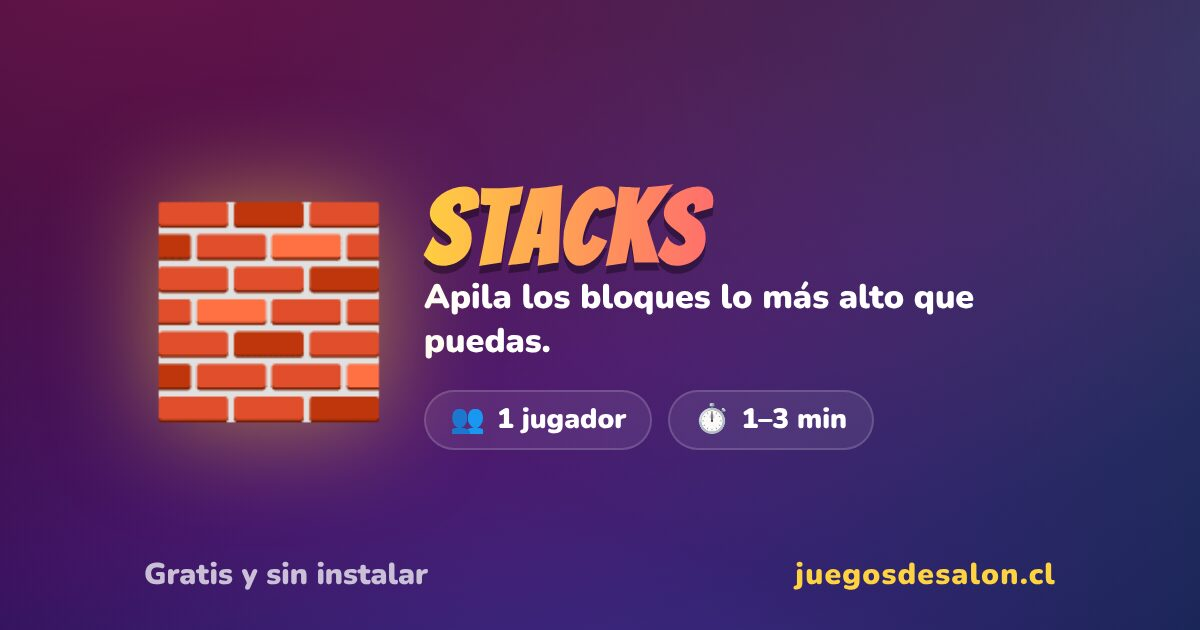
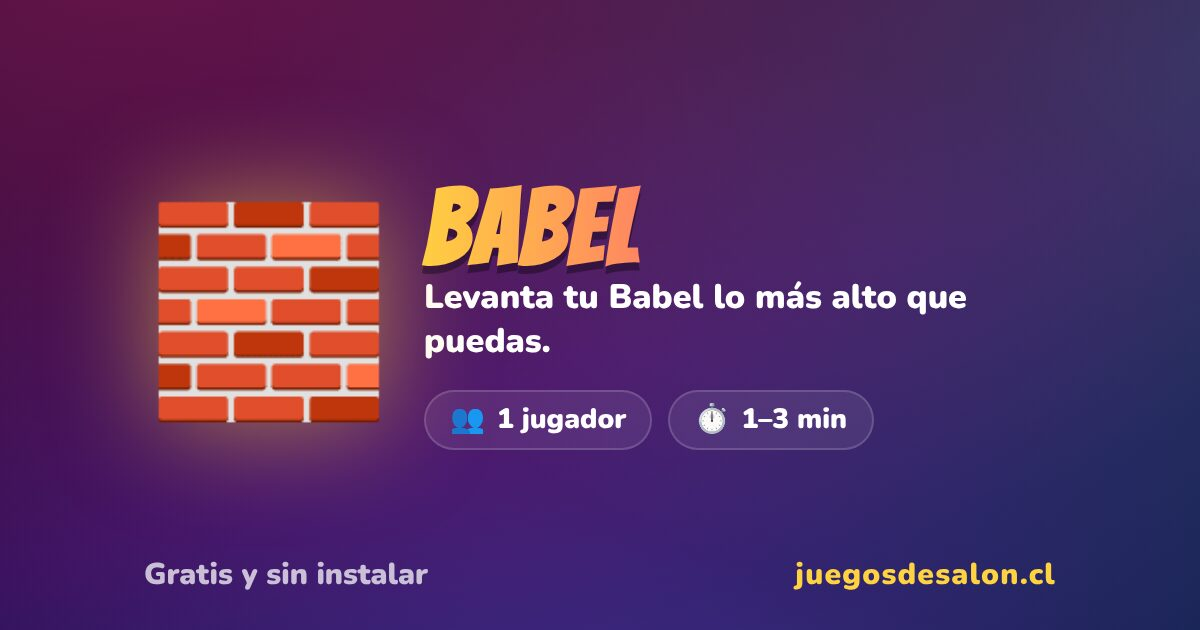
Stacks is renamed Babel (the owner's choice): its page moves to /babel/ (D-517)
Too close to the original's name (Stack). The id stays `stack`; the cover still
credits Ketchapp's Stack with its link.

Claude-Session: https://claude.ai/code/session_014TxuHUiWxbmduqQWuqBB6e

Changed region(s): [[0.3392, 0.2714, 0.8325, 0.5127]]

diff --git a/public/minijuegos/stack/index.html b/public/minijuegos/stack/index.html
@@ -3,34 +3,34 @@
 <head>
   <meta charset="utf-8">
   <meta name="viewport" content="width=device-width, initial-scale=1">
-  <title>Stacks 🧱 · Juegos de Salón</title>
-  <!-- Bridge page (D-192): this route moved to /stacks/. Generated by node tools/release/og.mjs cards: not edited by hand. -->
+  <title>Babel 🧱 · Juegos de Salón</title>
+  <!-- Bridge page (D-192): this route moved to /babel/. Generated by node tools/release/og.mjs cards: not edited by hand. -->
   <!-- generated: og · rewritten by node tools/release/og.mjs cards -->
-  <meta name="description" content="Apila los bloques lo más alto que puedas. Un jugador, 1–3 min. Gratis, sin instalar y sin cuenta.">
-  <link rel="canonical" href="https://juegosdesalon.cl/stacks/">
+  <meta name="description" content="Levanta tu Babel lo más alto que puedas. Un jugador, 1–3 min. Gratis, sin instalar y sin cuenta.">
+  <link rel="canonical" href="https://juegosdesalon.cl/babel/">
   <meta property="og:type" content="website">
   <meta property="og:site_name" content="Juegos de Salón">
-  <meta property="og:url" content="https://juegosdesalon.cl/stacks/">
-  <meta property="og:title" content="Stacks 🧱 · Juegos de Salón">
-  <meta property="og:description" content="Apila los bloques lo más alto que puedas. Un jugador, 1–3 min. Gratis, sin instalar y sin cuenta.">
+  <meta property="og:url" content="https://juegosdesalon.cl/babel/">
+  <meta property="og:title" content="Babel 🧱 · Juegos de Salón">
+  <meta property="og:description" content="Levanta tu Babel lo más alto que puedas. Un jugador, 1–3 min. Gratis, sin instalar y sin cuenta.">
   <meta property="og:image" content="https://juegosdesalon.cl/assets/og/stack.jpg">
   <meta property="og:image:type" content="image/jpeg">
   <meta property="og:image:width" content="1200">
   <meta property="og:image:height" content="630">
-  <meta property="og:image:alt" content="Stacks: Apila los bloques lo más alto que puedas.">
+  <meta property="og:image:alt" content="Babel: Levanta tu Babel lo más alto que puedas.">
   <meta property="og:locale" content="es_CL">
   <meta property="og:locale:alternate" content="en_US">
   <meta property="og:locale:alternate" content="pt_BR">
   <meta name="twitter:card" content="summary_large_image">
-  <meta name="twitter:title" content="Stacks 🧱 · Juegos de Salón">
-  <meta name="twitter:description" content="Apila los bloques lo más alto que puedas. Un jugador, 1–3 min. Gratis, sin instalar y sin cuenta.">
+  <meta name="twitter:title" content="Babel 🧱 · Juegos de Salón">
+  <meta name="twitter:description" content="Levanta tu Babel lo más alto que puedas. Un jugador, 1–3 min. Gratis, sin instalar y sin cuenta.">
   <meta name="twitter:image" content="https://juegosdesalon.cl/assets/og/stack.jpg">
-  <meta name="twitter:image:alt" content="Stacks: Apila los bloques lo más alto que puedas.">
+  <meta name="twitter:image:alt" content="Babel: Levanta tu Babel lo más alto que puedas.">
   <!-- /generated -->
-  <script>try { if (sessionStorage.getItem('juegos-de-salon:ref') === null) sessionStorage.setItem('juegos-de-salon:ref', document.referrer); } catch (e) {} location.replace('../../stacks/' + location.search + location.hash);</script>
-  <noscript><meta http-equiv="refresh" content="0; url=../../stacks/"></noscript>
+  <script>try { if (sessionStorage.getItem('juegos-de-salon:ref') === null) sessionStorage.setItem('juegos-de-salon:ref', document.referrer); } catch (e) {} location.replace('../../babel/' + location.search + location.hash);</script>
+  <noscript><meta http-equiv="refresh" content="0; url=../../babel/"></noscript>
 </head>
 <body>
-  <p><a href="../../stacks/">Stacks 🧱 · Juegos de Salón</a></p>
+  <p><a href="../../babel/">Babel 🧱 · Juegos de Salón</a></p>
 </body>
 </html>

diff --git a/public/babel/index.html b/public/babel/index.html
@@ -6,7 +6,7 @@
   <meta name="theme-color" content="#150726">
   <meta name="apple-mobile-web-app-capable" content="yes">
   <meta name="apple-mobile-web-app-status-bar-style" content="black-translucent">
-  <title>Stacks 🧱 · Juegos de Salón</title>
+  <title>Babel 🧱 · Juegos de Salón</title>
   <!-- Generated by node tools/release/og.mjs cards from public/cup/suelto/index.html: not edited by hand (D-162). -->
   <!--
     Sin destello de idioma (D-194): el HTML trae los textos en español y los módulos los cambian
@@ -27,26 +27,26 @@
     })();
   </script>
   <!-- generated: og · rewritten by node tools/release/og.mjs cards -->
-  <meta name="description" content="Apila los bloques lo más alto que puedas. Un jugador, 1–3 min. Gratis, sin instalar y sin cuenta.">
-  <link rel="canonical" href="https://juegosdesalon.cl/stacks/">
+  <meta name="description" content="Levanta tu Babel lo más alto que puedas. Un jugador, 1–3 min. Gratis, sin instalar y sin cuenta.">
+  <link rel="canonical" href="https://juegosdesalon.cl/babel/">
   <meta property="og:type" content="website">
   <meta property="og:site_name" content="Juegos de Salón">
-  <meta property="og:url" content="https://juegosdesalon.cl/stacks/">
-  <meta property="og:title" content="Stacks 🧱 · Juegos de Salón">
-  <meta property="og:description" content="Apila los bloques lo más alto que puedas. Un jugador, 1–3 min. Gratis, sin instalar y sin cuenta.">
+  <meta property="og:url" content="https://juegosdesalon.cl/babel/">
+  <meta property="og:title" content="Babel 🧱 · Juegos de Salón">
+  <meta property="og:description" content="Levanta tu Babel lo más alto que puedas. Un jugador, 1–3 min. Gratis, sin instalar y sin cuenta.">
   <meta property="og:image" content="https://juegosdesalon.cl/assets/og/stack.jpg">
   <meta property="og:image:type" content="image/jpeg">
   <meta property="og:image:width" content="1200">
   <meta property="og:image:height" content="630">
-  <meta property="og:image:alt" content="Stacks: Apila los bloques lo más alto que puedas.">
+  <meta property="og:image:alt" content="Babel: Levanta tu Babel lo más alto que puedas.">
   <meta property="og:locale" content="es_CL">
   <meta property="og:locale:alternate" content="en_US">
   <meta property="og:locale:alternate" content="pt_BR">
   <meta name="twitter:card" content="summary_large_image">
-  <meta name="twitter:title" content="Stacks 🧱 · Juegos de Salón">
-  <meta name="twitter:description" content="Apila los bloques lo más alto que puedas. Un jugador, 1–3 min. Gratis, sin instalar y sin cuenta.">
+  <meta name="twitter:title" content="Babel 🧱 · Juegos de Salón">
+  <meta name="twitter:description" content="Levanta tu Babel lo más alto que puedas. Un jugador, 1–3 min. Gratis, sin instalar y sin cuenta.">
   <meta name="twitter:image" content="https://juegosdesalon.cl/assets/og/stack.jpg">
-  <meta name="twitter:image:alt" content="Stacks: Apila los bloques lo más alto que puedas.">
+  <meta name="twitter:image:alt" content="Babel: Levanta tu Babel lo más alto que puedas.">
   <!-- /generated -->
   <link rel="manifest" href="../manifest.webmanifest">
   <script>

diff --git a/public/minigames/babel/index.html b/public/minigames/babel/index.html
@@ -1,0 +1,36 @@
+<!DOCTYPE html>
+<html lang="es">
+<head>
+  <meta charset="utf-8">
+  <meta name="viewport" content="width=device-width, initial-scale=1">
+  <title>Babel 🧱 · Juegos de Salón</title>
+  <!-- Bridge page (D-192): this route moved to /babel/. Generated by node tools/release/og.mjs cards: not edited by hand. -->
+  <!-- generated: og · rewritten by node tools/release/og.mjs cards -->
+  <meta name="description" content="Levanta tu Babel lo más alto que puedas. Un jugador, 1–3 min. Gratis, sin instalar y sin cuenta.">
+  <link rel="canonical" href="https://juegosdesalon.cl/babel/">
+  <meta property="og:type" content="website">
+  <meta property="og:site_name" content="Juegos de Salón">
+  <meta property="og:url" content="https://juegosdesalon.cl/babel/">
+  <meta property="og:title" content="Babel 🧱 · Juegos de Salón">
+  <meta property="og:description" content="Levanta tu Babel lo más alto que puedas. Un jugador, 1–3 min. Gratis, sin instalar y sin cuenta.">
+  <meta property="og:image" content="https://juegosdesalon.cl/assets/og/stack.jpg">
+  <meta property="og:image:type" content="image/jpeg">
+  <meta property="og:image:width" content="1200">
+  <meta property="og:image:height" content="630">
+  <meta property="og:image:alt" content="Babel: Levanta tu Babel lo más alto que puedas.">
+  <meta property="og:locale" content="es_CL">
+  <meta property="og:locale:alternate" content="en_US">
+  <meta property="og:locale:alternate" content="pt_BR">
+  <meta name="twitter:card" content="summary_large_image">
+  <meta name="twitter:title" content="Babel 🧱 · Juegos de Salón">
+  <meta name="twitter:description" content="Levanta tu Babel lo más alto que puedas. Un jugador, 1–3 min. Gratis, sin instalar y sin cuenta.">
+  <meta name="twitter:image" content="https://juegosdesalon.cl/assets/og/stack.jpg">
+  <meta name="twitter:image:alt" content="Babel: Levanta tu Babel lo más alto que puedas.">
+  <!-- /generated -->
+  <script>try { if (sessionStorage.getItem('juegos-de-salon:ref') === null) sessionStorage.setItem('juegos-de-salon:ref', document.referrer); } catch (e) {} location.replace('../../babel/' + location.search + location.hash);</script>
+  <noscript><meta http-equiv="refresh" content="0; url=../../babel/"></noscript>
+</head>
+<body>
+  <p><a href="../../babel/">Babel 🧱 · Juegos de Salón</a></p>
+</body>
+</html>

diff --git a/public/assets/js/games.js b/public/assets/js/games.js
@@ -510,19 +510,20 @@ export const SUELTOS = [
     nuevoDesde: '2026-11-02',
   },
   {
-    // Out of the lab in D-517 with Ninja, launched the same way by flags/stack (see Ninja)
+    // Out of the lab in D-517 with Ninja, launched the same way by flags/stack (see Ninja). Its name is Babel (the
+    // owner's choice): not the original's (Stack); the id stays `stack`
     id: 'stack',
     lanza: 'stack',
     copa: { pozo: 15 },
     unoAlDia: { orden: 20, desde: '2026-11-03' },
-    slug: 'stacks',
+    slug: 'babel',
     emoji: '🧱',
-    name: { es: 'Stacks', en: 'Stacks', pt: 'Stacks' },
-    tagline: { es: 'Apila los bloques lo más alto que puedas.', en: 'Stack the blocks as high as you can.', pt: 'Empilhe os blocos o mais alto que puder.' },
+    name: { es: 'Babel', en: 'Babel', pt: 'Babel' },
+    tagline: { es: 'Levanta tu Babel lo más alto que puedas.', en: 'Raise your Babel as high as you can.', pt: 'Erga sua Babel o mais alto que puder.' },
     keywords: {
-      es: ['torre', 'apilar', 'bloques', 'stacks', 'habilidad', 'reflejos', 'pulso', 'altura'],
-      en: ['tower', 'stack', 'blocks', 'stacks', 'skill', 'reflexes', 'timing', 'height'],
-      pt: ['torre', 'empilhar', 'blocos', 'stacks', 'habilidade', 'reflexos', 'precisão', 'altura'],
+      es: ['torre', 'apilar', 'bloques', 'babel', 'stack', 'habilidad', 'reflejos', 'pulso', 'altura'],
+      en: ['tower', 'stack', 'blocks', 'babel', 'skill', 'reflexes', 'timing', 'height'],
+      pt: ['torre', 'empilhar', 'blocos', 'babel', 'stack', 'habilidade', 'reflexos', 'precisão', 'altura'],
     },
     tipos: ['skill'],
     duration: '1–3',
@@ -542,7 +543,7 @@ export const TIPOS = {
   trivia: { emoji: '🧠', name: { es: 'Cultura', en: 'Trivia', pt: 'Cultura' } },
   // Only dice since Julepe and Cuarto Rey left the home page (D-420): the key stays, the name says what is there (D-517)
   tabletop: { emoji: '🎲', name: { es: 'Dados', en: 'Dice', pt: 'Dados' } },
-  // The first skill games, Ninja and Stacks (D-517): the home page offers a type only while it has a game to show.
+  // The first skill games, Ninja and Babel (D-517): the home page offers a type only while it has a game to show.
   // A short name, so five types fit one row on a 320 px phone in every language
   skill: { emoji: '🎯', name: { es: 'Pulso', en: 'Skill', pt: 'Reflexo' } },
 };

diff --git a/public/cup/games/stack/texts.js b/public/cup/games/stack/texts.js
@@ -1,11 +1,11 @@
 /**
- * 🧱 Stacks in La Copa: its texts in the three languages (C-3), merged into rules.js (D-331).
+ * 🧱 Babel in La Copa: its texts in the three languages (C-3), merged into rules.js (D-331).
  * `juego` is its entry in `juegos`; `ui`, the keys its screen reads from T, all prefixed `sk`.
- * The name is Stacks in every language; `skCredit` credits the original (its link is the game's name). Plural forms are [none, one, many].
+ * The name is Babel in every language; `skCredit` credits the original (its link is the game's name). Plural forms are [none, one, many].
  */
 const ES = {
   juego: {
-    nombre: 'Stacks', habilidad: 'reflejos',
+    nombre: 'Babel', habilidad: 'reflejos',
     como: [
       'Toca la pantalla para soltar el bloque que se desliza sobre la torre.',
       'Lo que sobresale se corta y el siguiente sale más chico. Si no cae sobre la torre, se acaba.',
@@ -33,7 +33,7 @@ const ES = {
 
 const EN = {
   juego: {
-    nombre: 'Stacks', habilidad: 'reflexes',
+    nombre: 'Babel', habilidad: 'reflexes',
     como: [
       'Tap the screen to drop the block sliding over the tower.',
       'Whatever hangs over the edge is cut off, and the next block is smaller. If it misses the tower, the game ends.',
@@ -61,7 +61,7 @@ const EN = {
 
 const PT = {
   juego: {
-    nombre: 'Stacks', habilidad: 'reflexos',
+    nombre: 'Babel', habilidad: 'reflexos',
     como: [
       'Toque a tela para soltar o bloco que desliza sobre a torre.',
       'O que sobra para fora é cortado, e o próximo bloco fica menor. Se ele não cair sobre a torre, o jogo acaba.',

diff --git a/public/labs/index.html b/public/labs/index.html
@@ -103,10 +103,10 @@
         </section>
 
         <section class="panel seccion" id="seccion-stack">
-          <h2>🧱 Stacks</h2>
+          <h2>🧱 Babel</h2>
           <p class="muted" style="margin:0">Inspirado en <a href="https://www.ketchappgames.com/" target="_blank" rel="noopener">Stack</a>, de Ketchapp. Un bloque se desliza sobre la torre y un toque lo suelta. Lo que sobresale se corta, y el siguiente bloque es más chico. Si cae justo encima, no se corta nada. ¿Hasta dónde llega tu torre?</p>
-          <p class="muted" style="margin:0;font-size:0.85rem">Listo para lanzar (D-517): en los tres idiomas, con su página <a href="../stacks/">/stacks/</a>, ranking, La Copa y Uno al día (desde el mazo del 8 de noviembre). Publicar para todos lo muestra al instante en la portada, la búsqueda y las copas nuevas; Volver al laboratorio lo vuelve a esconder.</p>
-          <a class="btn btn--yellow" id="btn-stack" href="../stacks/">🧱 Jugar Stacks</a>
+          <p class="muted" style="margin:0;font-size:0.85rem">Listo para lanzar (D-517): en los tres idiomas, con su página <a href="../babel/">/babel/</a>, ranking, La Copa y Uno al día (desde el mazo del 8 de noviembre). Publicar para todos lo muestra al instante en la portada, la búsqueda y las copas nuevas; Volver al laboratorio lo vuelve a esconder.</p>
+          <a class="btn btn--yellow" id="btn-stack" href="../babel/">🧱 Jugar Babel</a>
           <a class="link-btn" id="btn-stack-lab" href="stack/">El prototipo, en inglés</a>
         </section>
 

diff --git a/public/cup/demo.js b/public/cup/demo.js
@@ -47,7 +47,7 @@ const PUNTAJE = {
   // Tren en Vilo (D-456): ten a stage crossed, plus savings, solidity and speed
   // Ninja: its points, up to 100 (D-517)
   stick: k => { const s = Math.min(100, Math.round(60 * k + 40 * k * k)); return { s, r: `🥷 ${s}` }; },
-  // Stacks: two points a block, up to 100 (D-517)
+  // Babel: two points a block, up to 100 (D-517)
   stack: k => { const s = Math.min(100, 2 * Math.round(50 * k * k)); return { s, r: `${s}/100` }; },
   puentes: k => { const s = Math.min(100, 10 * Math.round(5 * k) + Math.round(30 * k * k)); return { s, r: `${s}/100` }; },
   // La final trae su tarjeta de rondas (⏳75 🔢85 …), que la tabla del día muestra (#259)

diff --git a/public/assets/js/flag-list.js b/public/assets/js/flag-list.js
@@ -17,6 +17,6 @@ export const FLAGS = {
   'name-guard': '🛡 Rankings: offensive names refused on sign-up',
   'uad-month-end': '🥇 Uno al día: month-end window with your place, a medal for the podium',
   'stick': '🥷 Ninja: the game, on the home page, the search and new cups (D-517)',
-  'stack': '🧱 Stacks: the game, on the home page, the search and new cups (D-517)',
+  'stack': '🧱 Babel: the game, on the home page, the search and new cups (D-517)',
   'no-double-tap-zoom': '👆 Games: a double tap no longer zooms the page (iPhone)',
 };

diff --git a/public/cup/games/stack/ui.js b/public/cup/games/stack/ui.js
@@ -1,5 +1,5 @@
 /**
- * 🧱 Stacks — its screen in La Copa, Uno al día and on its standalone page, moved from the lab
+ * 🧱 Babel — its screen in La Copa, Uno al día and on its standalone page, moved from the lab
  * (labs/stack/game.js, D-445) as Tren en Vilo was (D-456): a block slides over the tower, a tap drops
  * it, and whatever hangs over the edge is cut off. The engine is engine.js; the drawing, scene.js.
  *

diff --git a/public/cup/games/stack/style.css b/public/cup/games/stack/style.css
@@ -1,4 +1,4 @@
-/* 🧱 Stacks in La Copa (from the lab's style.css, D-445). Loaded by ui.js; every class starts with `sk-`.
+/* 🧱 Babel in La Copa (from the lab's style.css, D-445). Loaded by ui.js; every class starts with `sk-`.
    The tower's canvas is transparent: it stands on the app's own night (base.css). */
 
 /* The waiting room's name, with the 🧱 that sways */

diff --git a/public/cup/games/stack/scene.js b/public/cup/games/stack/scene.js
@@ -1,5 +1,5 @@
 /**
- * 🧱 Stacks' drawing: the tower in isometric view on a canvas, for the game and the cover (ui.js).
+ * 🧱 Babel' drawing: the tower in isometric view on a canvas, for the game and the cover (ui.js).
  * Moved from the lab (labs/stack/scene.js), the same drawing.
  */
 import { drop, movingAt, score, top, SLAB } from './engine.js';

diff --git a/public/cup/games/stack/engine.js b/public/cup/games/stack/engine.js
@@ -1,5 +1,5 @@
 /**
- * 🧱 Stacks — the engine (out of the lab, D-445, into La Copa, Uno al día and its own page): a slab
+ * 🧱 Babel — the engine (out of the lab, D-445, into La Copa, Uno al día and its own page): a slab
  * slides over the tower, a tap drops it, and whatever hangs over the edge is cut off. Pure functions,
  * no DOM.
  *
